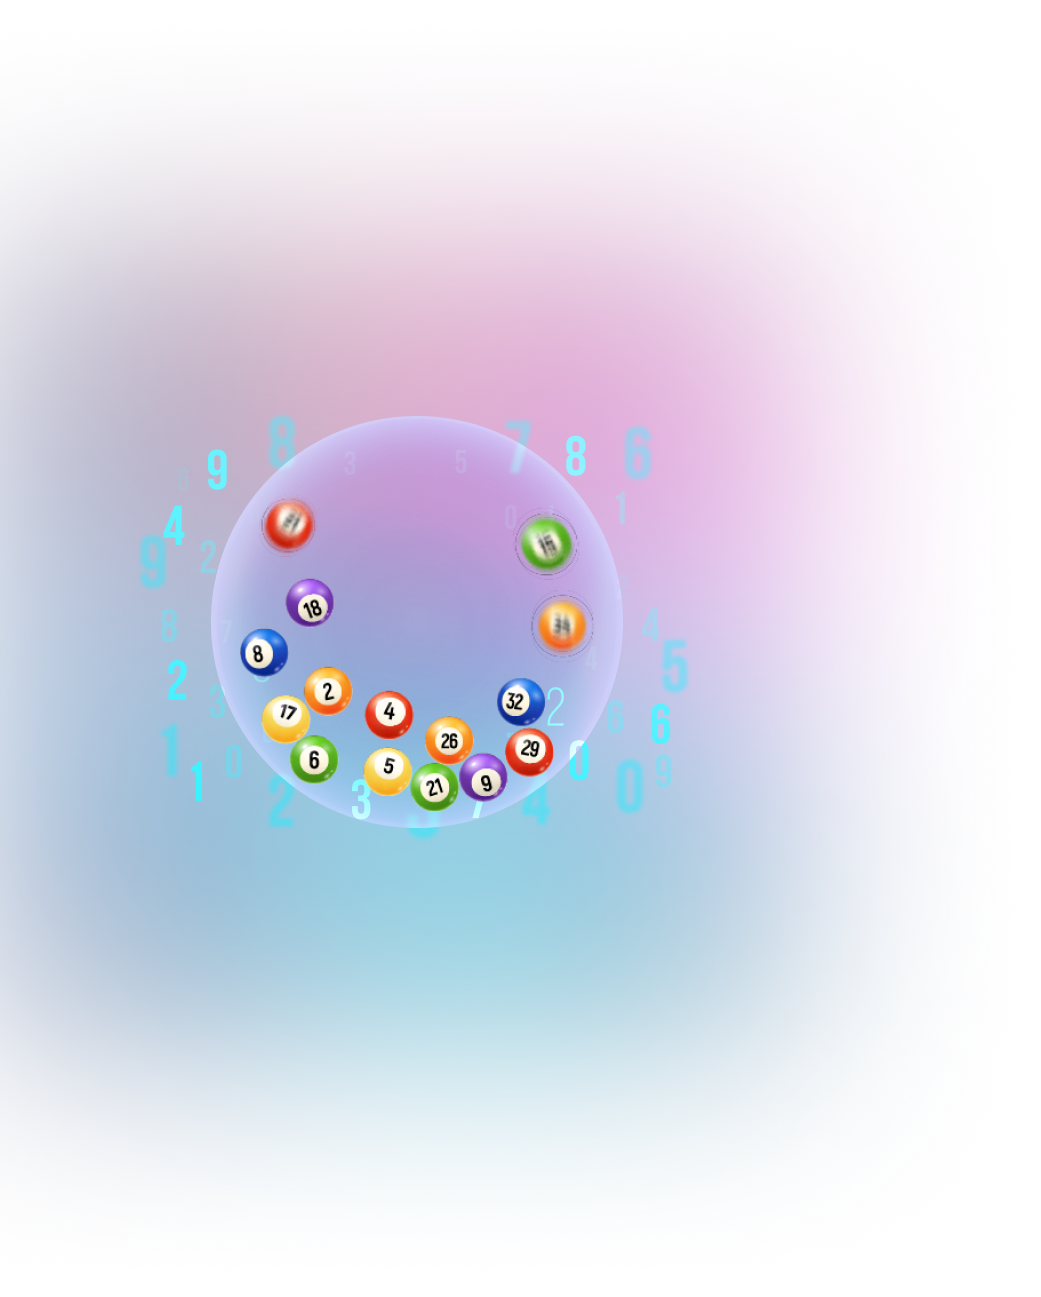
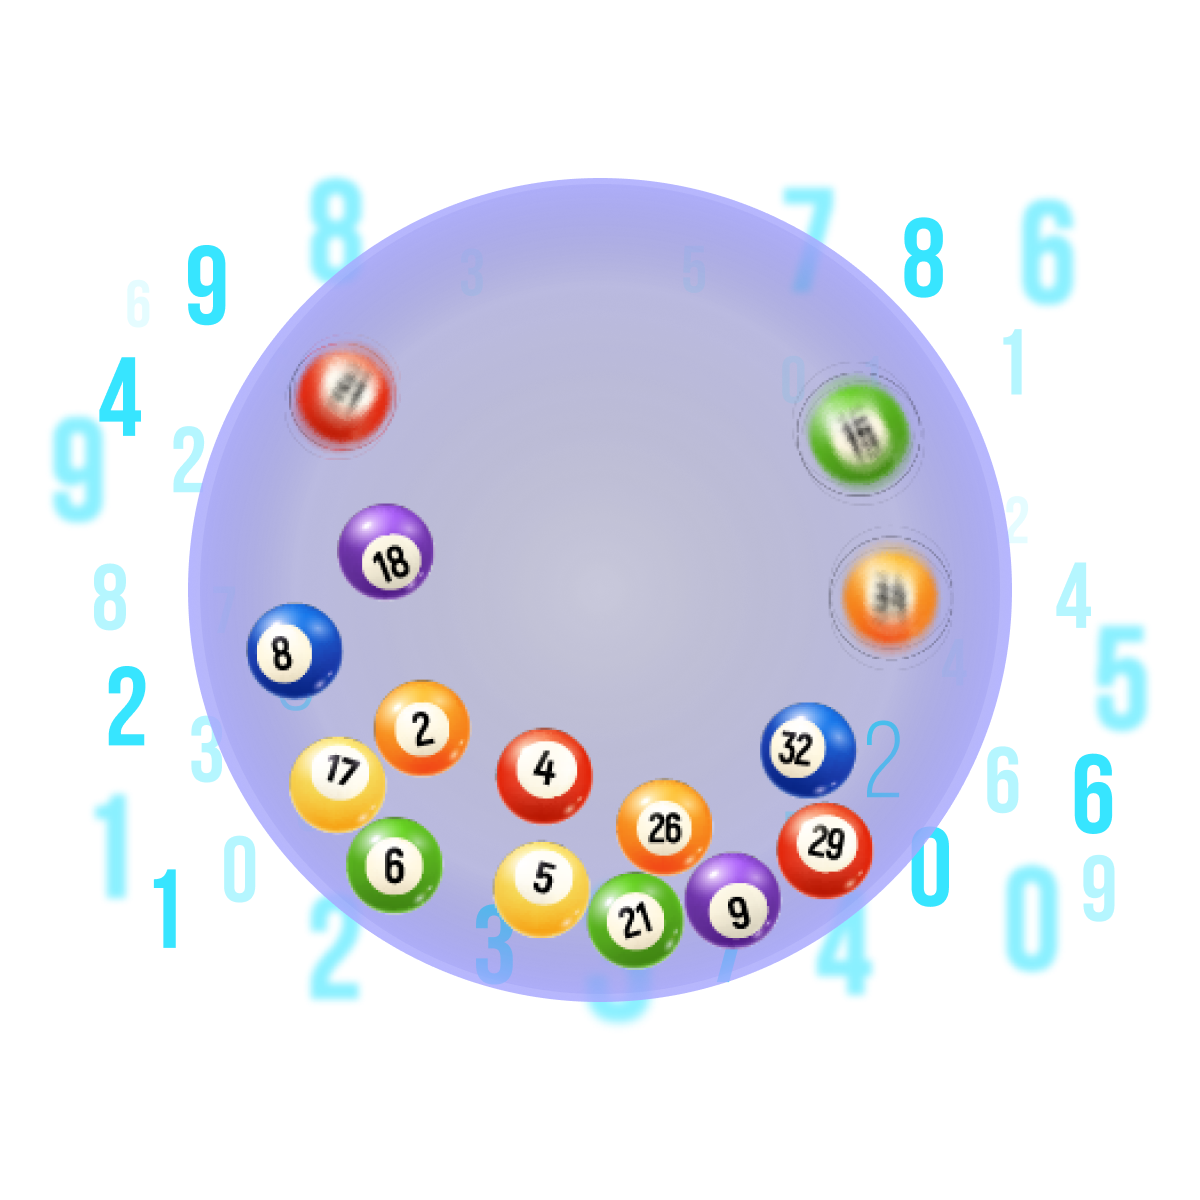
six commit

diff --git a/src/components/Fair/index.js b/src/components/Fair/index.js
@@ -1,14 +1,13 @@
 import React from 'react'
 import './style.css'
 import imgPlatform from "./img/plaform.png";
-import imgPlatformMobile from "./img/plaform--mobile.png";
 import imgCricle from "./img/circle-button.png"
 function Fair() {
   return (
     <div className='fair'>
-        <div className="container">
+        <div className="container-block">
             <div className="fair-wrapper">
-                <div className="fair-content content-padding--left">
+                <div className="fair-content">
                     <div className="wrapper-content">
                         <h2 className='title-block'>Fair platform for player</h2> 
                         <p className="desc">
@@ -24,8 +23,7 @@ function Fair() {
                     </div>
                 </div>
                 <div className="fair-img">
-                        <img src={imgPlatform} alt="img-platform" className='desktop' /> 
-                        <img src={imgPlatformMobile} alt="img-platform--mobile" className='mobile' />
+                    <img src={imgPlatform} alt="img-platform" className='desktop' /> 
                 </div>
             </div>
         </div>

diff --git a/src/components/Why/index.js b/src/components/Why/index.js
@@ -28,11 +28,12 @@ function Why() {
     ]
   return (
     <div className='why'>
-        <div className="why-wrapper">
+        <div className="container-block">
+            <div className="why-wrapper">
             <div className="why-img">
                 <img src={imgWhy} alt="img-why" />
             </div>
-            <div className="why-content content-padding--right">
+            <div className="why-content">
                 <div className="wrapper-content">
                     <h2 className='title-block'>Why is lottery blockchain?</h2> 
                     <p className="desc">
@@ -48,6 +49,7 @@ function Why() {
                     </div>
                     <Link href="/" className="btn-block btn-primary btn--yellow">get started</Link>
                 </div>
+            </div>
             </div>
         </div>
     </div>

diff --git a/src/components/Why/style.css b/src/components/Why/style.css
@@ -1,17 +1,14 @@
 .why{
-    padding-top: 500px;
+  
 }
-.container{
 
-}
 .why-wrapper{
     display: flex;
-    gap: 48px;
-    position: relative;
-    justify-content: flex-end;
+    gap: 120px;
+    justify-content: space-between;
 }
 .why-content{
-    max-width: 30%;
+    max-width: 40%;
     width: 100%;
 }
 .wrapper-content{
@@ -42,9 +39,17 @@
     height: 24px;
 }
 .why-img{
-    max-width: 70%;
+    max-width: 60%;
     width: 100%;
-    position: absolute;
-    top: -500px;
-    left: 0;
+    background-image: url('./img/bg-why.png');
+    background-size:contain ;
+    background-repeat:no-repeat ;
+}
+@media screen and (max-width: 1920px) {
+     .why-content {
+        max-width: 30%;
+    }
+    .why-img{
+        max-width: 70%;
+    }
 }

diff --git a/src/pages/Public.js b/src/pages/Public.js
@@ -2,16 +2,20 @@ import React from 'react'
 import {Header, Banner, SuperLott, Fair } from '../components'
 import Why from '../components/Why'
 import Revenue from '../components/Revenue'
+import Contact from '../components/Contact'
 
 const Public = () => {
   return (
     <>
       <Header/>
-      <Banner/>
-      <SuperLott/>
-      {/* <Fair/> */}
-      {/* <Why/> */}
+      <div className="bg-section">
+        <Banner/>
+        <SuperLott/>
+      </div>
+      <Fair/> 
+      <Why/>
       <Revenue/>
+      <Contact/>
     </>
   )
 }

diff --git a/src/components/Fair/style.css b/src/components/Fair/style.css
@@ -45,29 +45,14 @@
     color: #8C91A2;
     font-size: 14px;
 }
-.fair-img{
-    max-width: 60%;
-    width: 100%;
-    position: absolute;
-    top: -350px;
-    right: 0;
-}
+
 .fair-img .desktop {
     display: block;
 }
 .fair-img .mobile {
     display: none;
 }
-@media screen and (max-width: 1920px){
-.fair-img {
-    top: -250px;
-}
-}
-@media screen and (max-width: 992px){
-    .fair-img {
-        top: -150px;
-    }
-}
+
 @media screen and (max-width: 801px){
     .fair-img {
         position: unset;

diff --git a/src/components/Contact/index.js b/src/components/Contact/index.js
@@ -5,7 +5,7 @@ function Contact() {
       <div className="contact">
         <div className="contact-wrapper">
           <h2>Contact us</h2>
-          <p>Any question? Reach out to us and we’ll get back to you shortly.</p>
+          <p className="desc">Any question? Reach out to us and we’ll get back to you shortly.</p>
           <p>admin@superlott.io</p>
           <form action="">
             <input type="text" placeholder="Your Name" className="contact-input" />

diff --git a/src/components/Banner/style.css b/src/components/Banner/style.css
@@ -1,22 +1,6 @@
 .banner {
     padding-top: 80px;
     padding-bottom: 54px;
-
-}
-.banner-bg {
-    background-image: url(./img/bg-banner.png);
-    background-size:cover ;
-    background-repeat:no-repeat ;
-    max-width: 905px;
-    width: 100%;
-    height: 100%;
-    max-height: 905px;
-    position: absolute;
-    top: 50%;
-    left: 50%;
-    transform: translate(-50%, -50%);
-    z-index: -1;
-    filter: blur(256px);
 }
 .banner-content {
     max-width: 992px;

diff --git a/src/components/Banner/index.js b/src/components/Banner/index.js
@@ -5,7 +5,6 @@ function Banner() {
         <>
             <div className="banner">
                 <div className="banner-content">
-                    <div className="banner-bg"></div>
                     <h2 className="banner-title">Super lottery on the equity <span>blockchain</span>  technology platform</h2>
                     <p className="banner-desc">
                         Global decentralize network to buy & share lottery ticket easily

diff --git a/src/App.css b/src/App.css
@@ -5,7 +5,7 @@
 }
 body {
   font-family: interRegular;
-  background: black;
+  background: #0E0C15;
 }
 *{
   margin: 0;
@@ -62,8 +62,12 @@ img {
   padding-left: 15px;
   padding-right: 15px;
 }
-.content-padding--left {
-  padding-left: 160px;
+.container-block{
+  max-width: 1400px;
+  margin-left: auto;
+  margin-right: auto;
+  padding-left: 15px;
+  padding-right: 15px;
 }
 .content-padding--right {
   padding-right: 160px;

diff --git a/src/components/Contact/style.css b/src/components/Contact/style.css
@@ -1,6 +1,9 @@
 .contact{
 
 }
+.contact .desc {
+    text-align: center;
+}
 .contact-wrapper{
     max-width: ;
     margin-left: auto;
@@ -9,5 +12,9 @@
     padding-right: 15px;
 }
 .contact-input{
-
+    background: transparent;
+    border: none;
+    width: 100%;
+    flex-direction: column;
+    display: flex;
 }

diff --git a/src/components/Header/index.js b/src/components/Header/index.js
@@ -37,7 +37,7 @@ function Header() {
               </li>
             ))}
           </ul>
-          <a href="/" className="btn-header btn-default btn--yellow">REWARD</a>
+          <Link to="/" className="btn-header btn-default btn--yellow">REWARD</Link>
         </div>
       </nav>
     </>

diff --git a/src/pages/Home.js b/src/pages/Home.js
@@ -1,11 +1,13 @@
 import React from 'react'
 import { Banner, SuperLott } from '../components'
+import Contact from '../components/Contact'
 
 const Home = () => {
   return (
     <>
       <Banner></Banner>
       <SuperLott></SuperLott>
+      <Contact></Contact>
     </>
   )
 }
